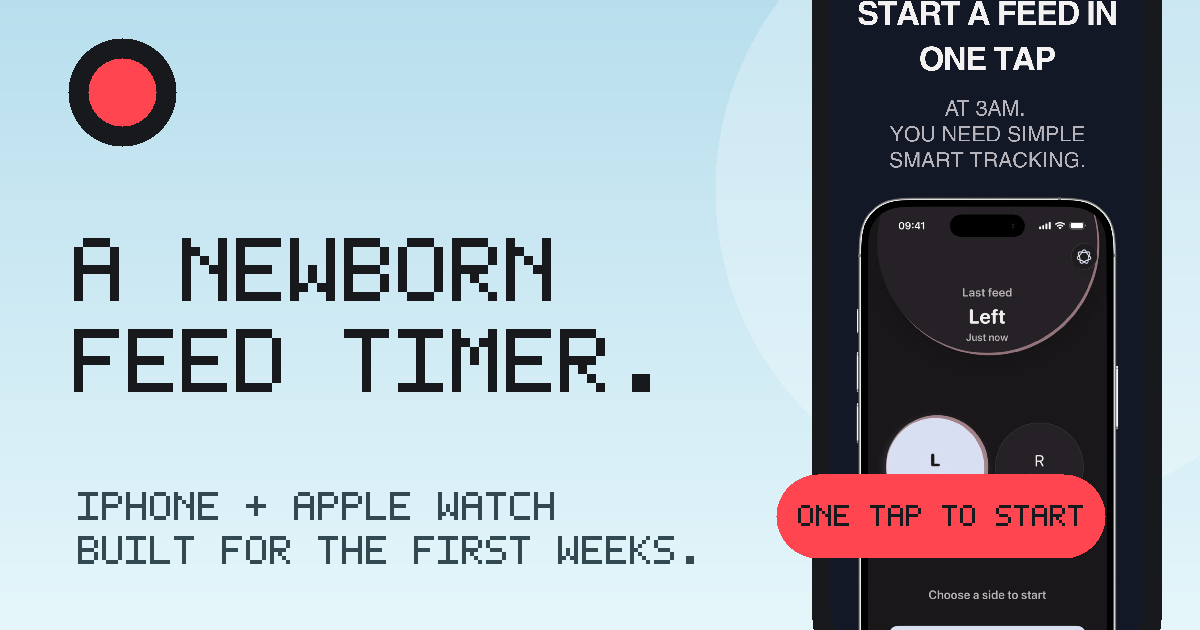
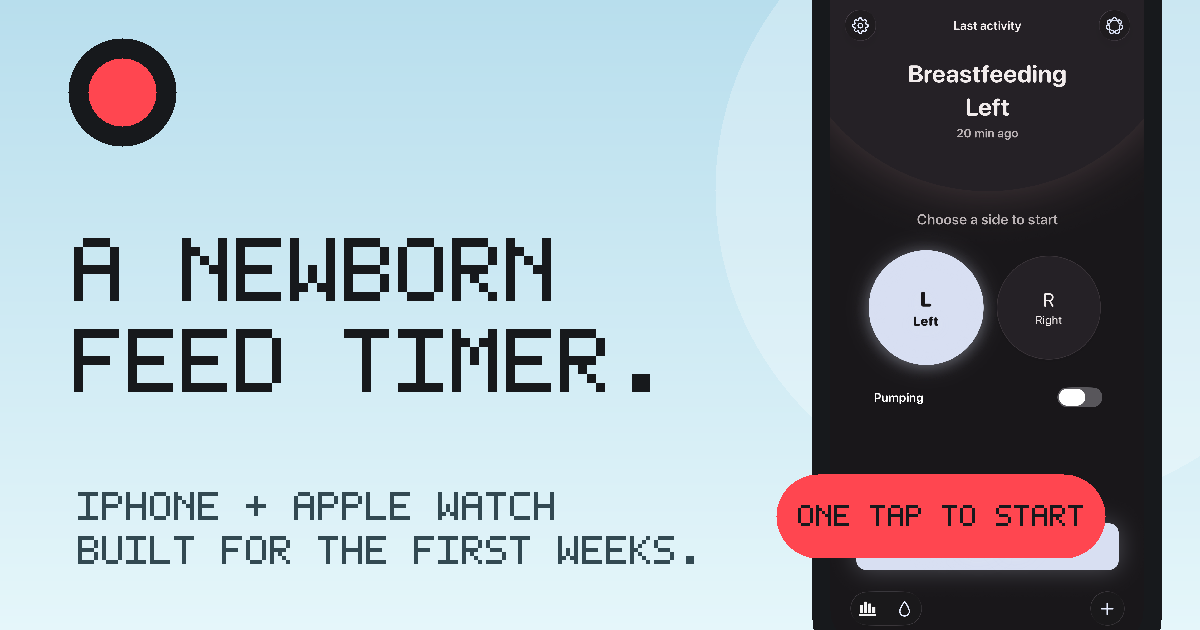
Refresh breastfeeding page screenshots

Changed region(s): [[0.6783, 0.0, 0.9558, 1.0], [0.925, 0.181, 0.9558, 0.2413]]

diff --git a/src/pages/BreastfeedingTrackerLandingPage.tsx b/src/pages/BreastfeedingTrackerLandingPage.tsx
@@ -124,26 +124,26 @@ export function BreastfeedingTrackerLandingPage() {
       <section className="feeding-feature-band">
         <div className="container feeding-feature-layout">
           <Reveal className="feeding-feature-copy">
-            <p className="eyebrow">{breastfeedingTrackerContent.watchFeature.eyebrow}</p>
-            <h2>{breastfeedingTrackerContent.watchFeature.heading}</h2>
-            {breastfeedingTrackerContent.watchFeature.paragraphs.map((paragraph) => (
+            <p className="eyebrow">{breastfeedingTrackerContent.careMethodsFeature.eyebrow}</p>
+            <h2>{breastfeedingTrackerContent.careMethodsFeature.heading}</h2>
+            {breastfeedingTrackerContent.careMethodsFeature.paragraphs.map((paragraph) => (
               <p key={paragraph}>{paragraph}</p>
             ))}
-            <Link
+            <BreastfeedingTrackerAppStoreLink
               className="feeding-text-link"
-              to={breastfeedingTrackerContent.watchFeature.link.url}
+              placement="feature"
             >
-              {breastfeedingTrackerContent.watchFeature.link.label}
-            </Link>
+              {breastfeedingTrackerContent.careMethodsFeature.cta}
+            </BreastfeedingTrackerAppStoreLink>
           </Reveal>
           <Reveal className="feeding-feature-images" delayMs={100}>
             <img
               src={breastfeedingTrackerApp.screenshots[1].src}
-              alt={breastfeedingTrackerContent.watchFeature.imageAlts[0]}
+              alt={breastfeedingTrackerContent.careMethodsFeature.imageAlts[0]}
             />
             <img
               src={breastfeedingTrackerApp.screenshots[2].src}
-              alt={breastfeedingTrackerContent.watchFeature.imageAlts[1]}
+              alt={breastfeedingTrackerContent.careMethodsFeature.imageAlts[1]}
             />
           </Reveal>
         </div>
